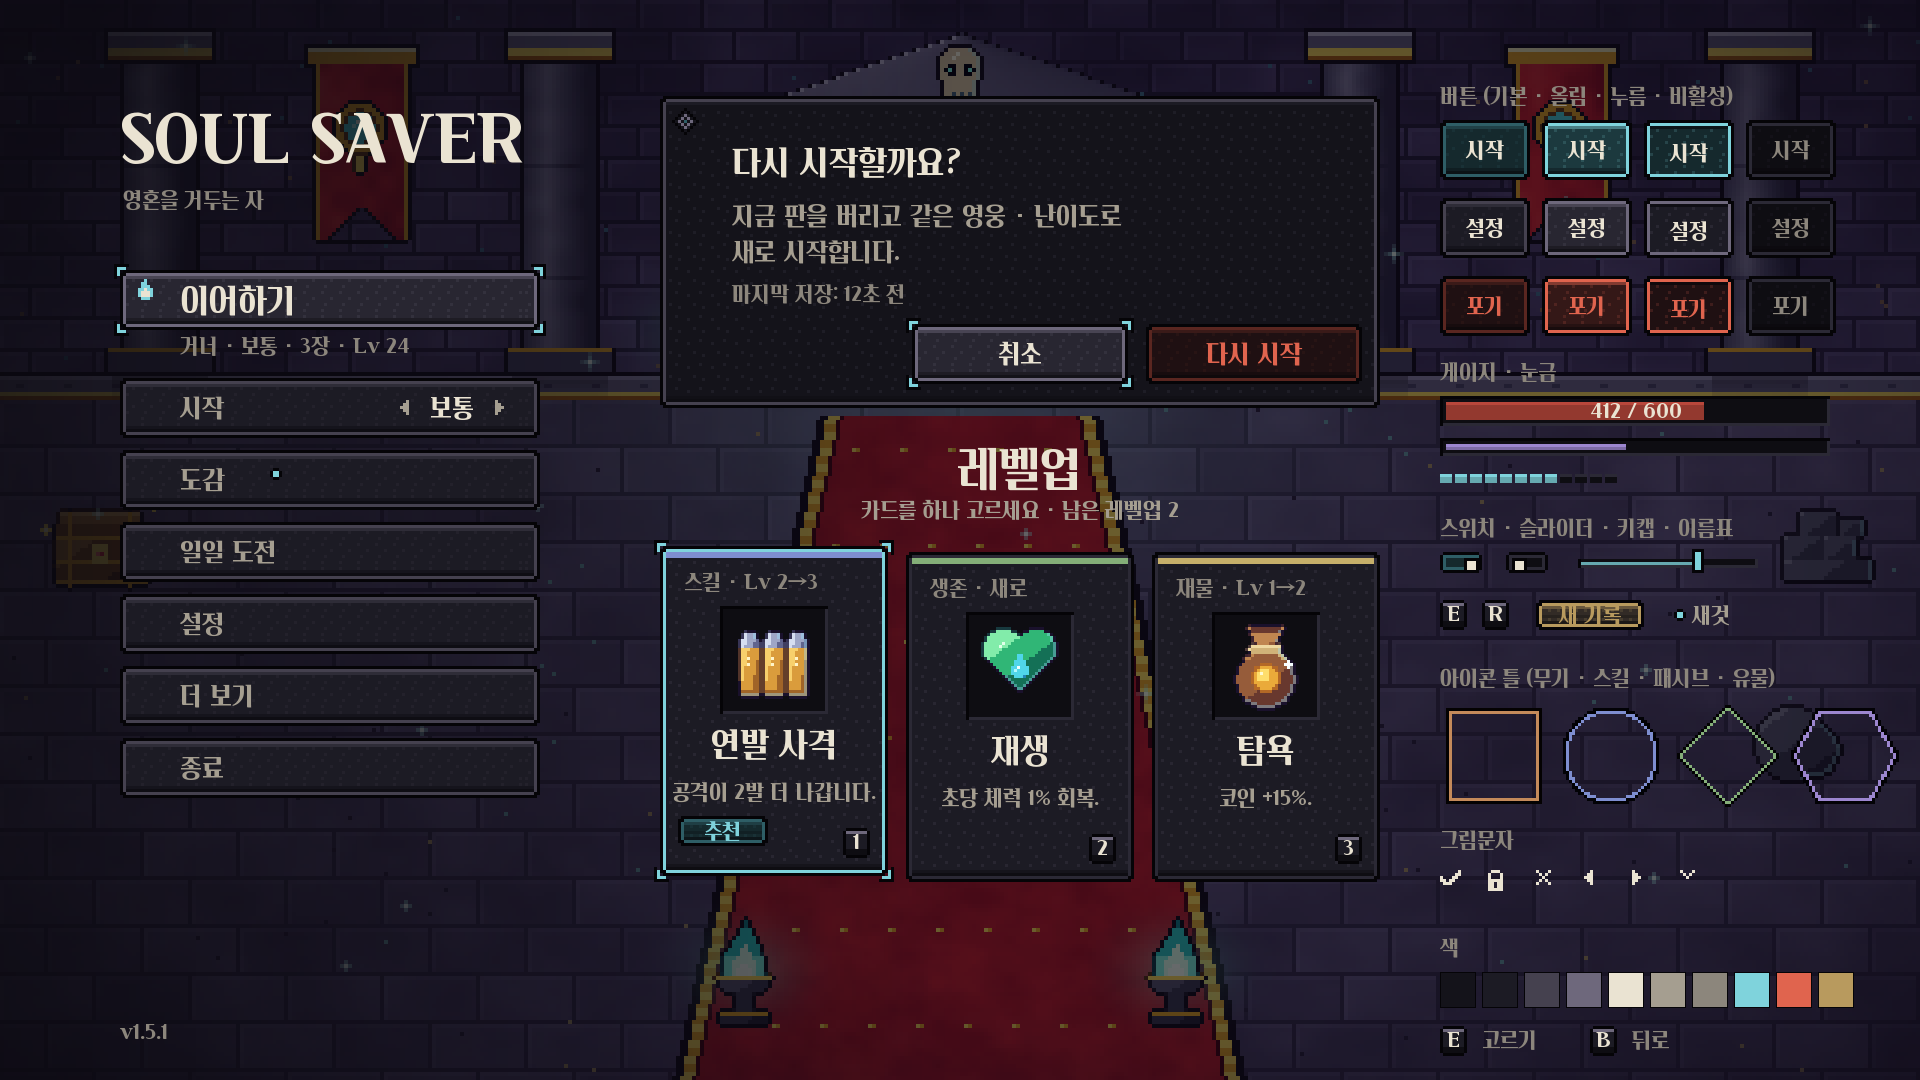
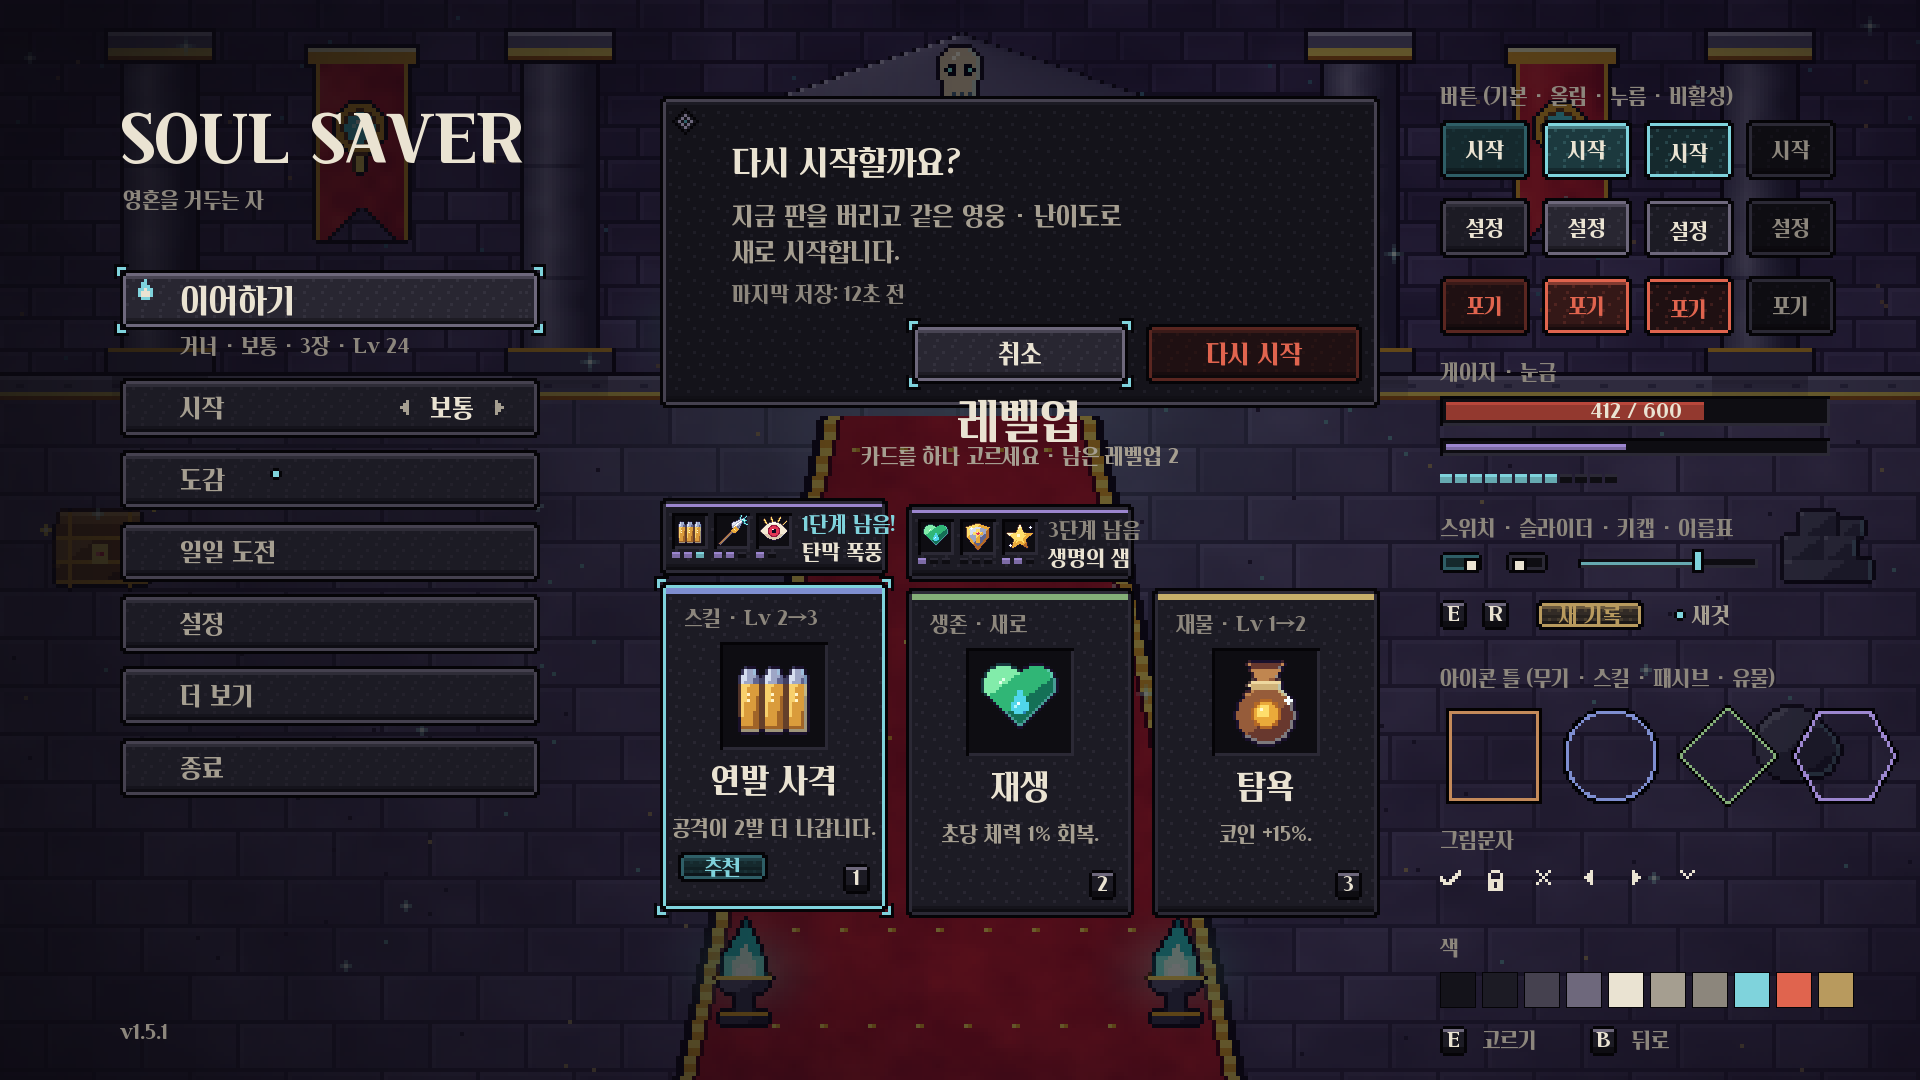
docs: UI v2 미리보기 카드에 진화 띠 넣음 (지금처럼 카드 바로 위 · 재료 셋 + 단계 칸 · 남은 단계 · 진화 이름, 진화 = 영혼색 선)
Claude-Session: https://claude.ai/code/session_01BdCRWmPTtrmShS5oeexMik

Changed region(s): [[0.3438, 0.3667, 0.7188, 0.8556]]

diff --git a/tools/pixelart/make_ui_v2.py b/tools/pixelart/make_ui_v2.py
@@ -410,14 +410,14 @@ place('ui2_btn_danger_n', px + 486, py + 228, 72, 20)
 text(px + 486 + 108, py + 228 + 30, '다시 시작', 26, T['Danger'][:3], 'mm')
 
 # 레벨업 카드 셋 (가운데 아래)
-text(1020, 468, '레벨업', 48, T['Text1'][:3], 'mm')
-text(1020, 510, '카드를 하나 고르세요 · 남은 레벨업 2', 22, T['Text2'][:3], 'mm')
+text(1020, 420, '레벨업', 48, T['Text1'][:3], 'mm')
+text(1020, 456, '카드를 하나 고르세요 · 남은 레벨업 2', 22, T['Text2'][:3], 'mm')
 icons = ['ab_multishot', 'ab_regen', 'ab_coin']
 names = [('스킬 · Lv 2→3', '연발 사격', '공격이 2발 더 나갑니다.', T['CatSkill'] if 'CatSkill' in T else T['Line'], 's'),
          ('생존 · 새로', '재생', '초당 체력 1% 회복.', T['CatSurvival'] if 'CatSurvival' in T else T['Line'], 'n'),
          ('재물 · Lv 1→2', '탐욕', '코인 +15%.', T['CatWealth'] if 'CatWealth' in T else T['Line'], 'n')]
 for i, (cat, nm, desc, cc, st) in enumerate(names):
-    cx, cy = 660 + i * 246, 552 + (-6 if st == 's' else 0)
+    cx, cy = 660 + i * 246, 588 + (-6 if st == 's' else 0)
     place('ui2_card_' + st, cx, cy, 76, 110)
     if st == 's':
         place('ui2_focus', cx - 6, cy - 6, 80, 114)
@@ -431,6 +431,22 @@ for i, (cat, nm, desc, cc, st) in enumerate(names):
     text(cx + 114, cy + 246, desc, 22, T['Text2'][:3], 'mm')
     sprite('ui2_keycap', cx + 228 - 45, cy + 330 - 48)
     text(cx + 228 - 31, cy + 330 - 34, str(i + 1), 22, T['Text1'][:3], 'mm')
+    # 진화 띠 (지금처럼 카드 바로 위): 재료 아이콘 셋 + 단계 칸 · 남은 단계 · 진화 이름 — 진화는 영혼색(보라) 선 · 「바로 진화!」만 청동(보상색)
+    evo = [('1단계 남음!', '탄막 폭풍', T['Accent'], [(3, 3), (2, 3), (1, 2)]), ('3단계 남음', '생명의 샘', T['Text3'], [(1, 3), (0, 3), (2, 3)]), None][i]
+    if evo:
+        tagtxt, evname, tagc, lv = evo
+        bx, by = cx, cy - 84
+        place('ui2_card_n', bx, by, 76, 26)
+        D.rectangle([bx + 6, by + 6, bx + 228 - 7, by + 8], fill=T['GaugeSoul'][:3])          # 영혼색 1도트 띠
+        for k, (have, mx) in enumerate(lv):
+            ix = bx + 12 + k * 42
+            place('ui2_inset', ix, by + 15, 12, 12)
+            mi = Image.open(os.path.join(ROOT, 'Assets', 'Sprites', 'UI', 'Theme', ['ab_multishot', 'ab_pierce', 'ab_glare', 'ab_regen', 'ab_armor', 'ab_exp'][k + (0 if i == 0 else 3)] + '.png')).convert('RGBA')
+            board.alpha_composite(mi.resize((32, 32), Image.NEAREST), (ix + 2, by + 17))
+            for s in range(mx):
+                sprite('ui2_seg_on' if s < have else 'ui2_seg_off', ix + s * 12, by + 54, (T['Accent'] if (k == 0 and s == have - 1 and i == 0) else T['GaugeSoul']) if s < have else None, 2)
+        text(bx + 142, by + 26, tagtxt, 22, tagc[:3], 'lm')
+        text(bx + 142, by + 54, evname, 22, T['Text1'][:3], 'lm')
     if i == 0:
         place('ui2_tag', cx + 18, cy + 270, 30, 10)
         text(cx + 18 + 45, cy + 270 + 15, '추천', 22, T['Accent'][:3], 'mm')
